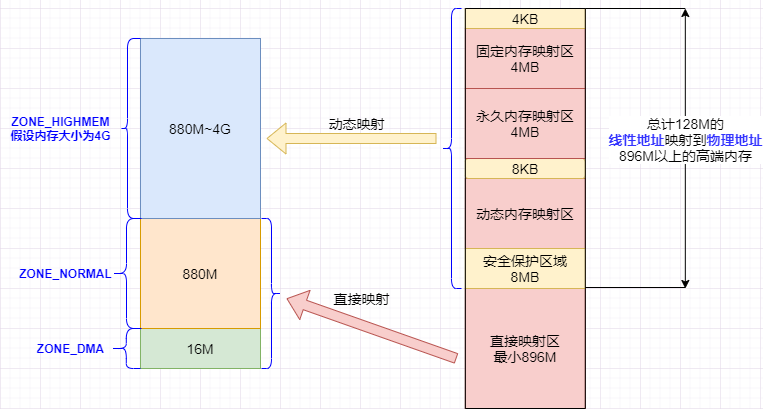
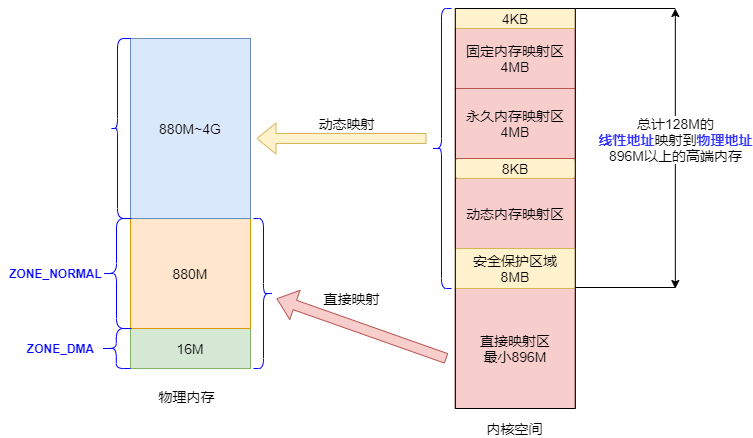
update linux mem manger

Changed region(s): [[0.0, 0.0, 1.0, 1.0]]

diff --git a/_posts/linux/linux工具系列/02/浅谈linux内存管理.md b/_posts/linux/linux工具系列/02/浅谈linux内存管理.md
@@ -1,16 +1,22 @@
 今天来带大家研究一下` Linux `内存管理。对于精通 `CURD` 的业务同学，内存管理好像离我们很远，但这个知识点虽然冷门（估计很多人学完根本就没机会用上）但绝对是基础中的基础，这就像武侠中的内功修炼，学完之后看不到立竿见影的效果，但对你日后的开发工作是大有裨益的，因为你站的更高了。
 
+**文中所有示例图都是我亲手画的，画图比码字还费时间，但是看图理解比文字更直观，需要高清示例图片的同学，文末有获取方式自取。** 
+
 再功利点的说，面试的时候不经意间透露你懂这方面知识，并且能说出个一二三来，也许能让面试官对你更有兴趣，离升职加薪，走上人生巅峰又近了一步。
 
-  ![img](https://i01piccdn.sogoucdn.com/5309215032ab9b82) 
+  ![image](https://imgconvert.csdnimg.cn/aHR0cHM6Ly91cGxvYWQtaW1hZ2VzLmppYW5zaHUuaW8vdXBsb2FkX2ltYWdlcy83ODQyNDY0LTIzMmZkNThiMGUwYzg4ZDE?x-oss-process=image/format,png) 
 
-前提约定：本文讨论技术内容前提是，操作系统环境都是 `x86`架构的 32 位 ` Linux `系统。
+前提约定：本文讨论技术内容前提，操作系统环境都是 `x86`架构的 32 位 ` Linux `系统。
 
 ## 虚拟地址
 
 即使是现代操作系统中，内存依然是计算机中很宝贵的资源，看看你电脑几个T固态硬盘，再看看内存大小就知道了。为了充分利用和管理系统内存资源，Linux采用虚拟内存管理技术，利用虚拟内存技术让每个进程都有`4GB` 互不干涉的虚拟地址空间。
 
 进程初始化分配和操作的都是基于这个「虚拟地址」，只有当进程需要实际访问内存资源的时候才会建立虚拟地址和物理地址的映射，调入物理内存页。
+
+打个不是很恰当的比方。这个原理其实和现在的某某网盘一样，假如你的网盘空间是` 1TB `，真以为就一口气给了你这么大空间吗？那还是太年轻，都是在你往里面放东西的时候才给你分配空间，你放多少就分多少实际空间给你，但你和你朋友看起来就像大家都拥有` 1TB `空间一样。
+
+![img](https://imgconvert.csdnimg.cn/aHR0cHM6Ly91cGxvYWQtaW1hZ2VzLmppYW5zaHUuaW8vdXBsb2FkX2ltYWdlcy83ODQyNDY0LTMwN2QzODQ1NzQyZmEwODM?x-oss-process=image/format,png)
 
 ### 虚拟地址的好处
 
@@ -19,7 +25,8 @@
 
 `4GB` 的进程虚拟地址空间被分成两部分：「用户空间」和「内核空间」
 
-![用户空间内核空间](F:\github\lemonchann.github.io\_posts\linux\linux工具系列\02\用户空间内核空间.png)
+![用户空间内核空间](https://imgconvert.csdnimg.cn/aHR0cHM6Ly91cGxvYWQtaW1hZ2VzLmppYW5zaHUuaW8vdXBsb2FkX2ltYWdlcy83ODQyNDY0LTRmMzgyNjMxZmQxMzM1MjMucG5n?x-oss-process=image/format,png)
+
 
 ## 物理地址
 
@@ -27,13 +34,14 @@
 
 把虚拟地址转换成内存的物理地址，这中间涉及利用`MMU` 内存管理单元（Memory Management Unit ) 对虚拟地址分段和分页（段页式）地址转换，关于分段和分页的具体流程，这里不再赘述，可以参考任何一本计算机组成原理教材描述。
 
- ![段页式内存管理地址转换](F:\github\lemonchann.github.io\_posts\linux\linux工具系列\02\段页式内存管理地址转换.png)
+![段页式内存管理地址转换](https://imgconvert.csdnimg.cn/aHR0cHM6Ly91cGxvYWQtaW1hZ2VzLmppYW5zaHUuaW8vdXBsb2FkX2ltYWdlcy83ODQyNDY0LTIyNzBlOTNmMjBlOGZkYjcucG5n?x-oss-process=image/format,png)
+
 
 `Linux` 内核会将物理内存分为3个管理区，分别是：
 
 ### ZONE_DMA
 
-`DMA`内存区域。包含0MB~16MB之间的内存页框，可以由老式基于ISA的设备通过DMA使用，直接映射到内核的地址空间。
+`DMA`内存区域。包含0MB~16MB之间的内存页框，可以由老式基于` ISA `的设备通过` DMA `使用，直接映射到内核的地址空间。
 
 ### ZONE_NORMAL
 
@@ -43,11 +51,12 @@
 
 高端内存区域。包含896MB以上的内存页框，不进行直接映射，可以通过永久映射和临时映射进行这部分内存页框的访问。
 
-![物理内存区划分](F:\github\lemonchann.github.io\_posts\linux\linux工具系列\02\物理内存区划分.png)
+![物理内存区划分](https://imgconvert.csdnimg.cn/aHR0cHM6Ly91cGxvYWQtaW1hZ2VzLmppYW5zaHUuaW8vdXBsb2FkX2ltYWdlcy83ODQyNDY0LTE2MzVmNGMwNzZjZWFlMTUucG5n?x-oss-process=image/format,png)
+
 
 ## 用户空间
 
-用户进程能访问的是「用户空间」，每个进程都有自己独立的用户空间，虚拟地址范围从从 0x00000000至0xBFFFFFFF ，总容量3G 。 
+用户进程能访问的是「用户空间」，每个进程都有自己独立的用户空间，虚拟地址范围从从 `0x00000000` 至 `0xBFFFFFFF` 总容量3G 。 
 
 用户进程通常只能访问用户空间的虚拟地址，只有在执行内陷操作或系统调用时才能访问内核空间。 
 
@@ -65,19 +74,18 @@
 
 - BSS段
 
-  BSS段包含了程序中未初始化的全局变量，在内存中 `bss` 段全部置零。
+  ` BSS `段包含了程序中未初始化的全局变量，在内存中 `bss` 段全部置零。
 
-- 堆 heap
+- 堆 ` heap` 
 
   堆是用于存放进程运行中被动态分配的内存段，它的大小并不固定，可动态扩张或缩减。当进程调用malloc等函数分配内存时，新分配的内存就被动态添加到堆上（堆被扩张）；当利用free等函数释放内存时，被释放的内存从堆中被剔除（堆被缩减）
 
-- 栈 stack
+- 栈 `stack`
 
-  栈是用户存放程序临时创建的局部变量，也就是函数中定义的变量（但不包括static声明的变量，static意味着在数据段中存放变量）。除此以外，在函数被调用时，其参数也会被压入发起调用的进程栈中，并且待到调用结束后，函数的返回值也会被存放回栈中。由于栈的先进先出特点，所以栈特别方便用来保存/恢复调用现场。从这个意义上讲，我们可以把堆栈看成一个寄存、交换临时数据的内存区。
+  栈是用户存放程序临时创建的局部变量，也就是函数中定义的变量（但不包括 `static` 声明的变量，static意味着在数据段中存放变量）。除此以外，在函数被调用时，其参数也会被压入发起调用的进程栈中，并且待到调用结束后，函数的返回值也会被存放回栈中。由于栈的先进先出特点，所以栈特别方便用来保存/恢复调用现场。从这个意义上讲，我们可以把堆栈看成一个寄存、交换临时数据的内存区。
 
 上述几种内存区域中数据段、`BSS` 段、堆通常是被连续存储在内存中，在位置上是连续的，而代码段和栈往往会被独立存放。堆和栈两个区域在 `i386` 体系结构中栈向下扩展、堆向上扩展，相对而生。 
-
-![程序内存区域分段](F:\github\lemonchann.github.io\_posts\linux\linux工具系列\02\程序内存区域分段.png)
+![程序内存区域分段](https://img-blog.csdnimg.cn/20200419230245702.png#pic_center)
 
 你也可以再linux下用`size` 命令查看编译后程序的各个内存区域大小：
 
@@ -91,29 +99,32 @@
 
 ## 内核空间
 
-在x86 32位系统里，Linux内核地址空间是指虚拟地址从0xC0000000开始到0xFFFFFFFF为止的高端内存地址空间，总计1G的容量， 包括了内核镜像、物理页面表、驱动程序等运行在内核空间 。
+在 `x86 32` 位系统里，Linux 内核地址空间是指虚拟地址从 `0xC0000000` 开始到 `0xFFFFFFFF` 为止的高端内存地址空间，总计 `1G` 的容量， 包括了内核镜像、物理页面表、驱动程序等运行在内核空间 。
 
-![内核空间细分区域](F:\github\lemonchann.github.io\_posts\linux\linux工具系列\02\内核空间细分区域.png)
+![内核空间细分区域.](https://imgconvert.csdnimg.cn/aHR0cHM6Ly91cGxvYWQtaW1hZ2VzLmppYW5zaHUuaW8vdXBsb2FkX2ltYWdlcy83ODQyNDY0LWZmZTNlNGQ4ZDc5ZjNmNGMucG5n?x-oss-process=image/format,png)
+
 
 #### 直接映射区
 
 直接映射区 `Direct Memory Region`：从内核空间起始地址开始，最大`896M`的内核空间地址区间，为直接内存映射区。
 
-直接映射区的896MB的「线性地址」直接与「物理地址」的前`896MB`进行映射，也就是说，内核地址空间的线性地址`0xC0000001`所对应的物理地址为`0x00000001`，它们之间相差一个偏移量`PAGE_OFFSET  = 0xC0000000` 
+直接映射区的896MB的「线性地址」直接与「物理地址」的前`896MB`进行映射，也就是说线性地址和分配的物理地址都是连续的。内核地址空间的线性地址`0xC0000001`所对应的物理地址为`0x00000001`，它们之间相差一个偏移量`PAGE_OFFSET  = 0xC0000000` 
 
-该区域的线性地址和物理地址存在线性转换关系：线性地址 = `PAGE_OFFSET` + 物理地址。也可以用 `virt_to_phys() `函数将内核虚拟空间中的线性地址转化为物理地址。
+该区域的线性地址和物理地址存在线性转换关系「线性地址 = `PAGE_OFFSET` + 物理地址」也可以用 `virt_to_phys() `函数将内核虚拟空间中的线性地址转化为物理地址。
 
 
 
 #### 高端内存线性地址空间
 
-内核空间线性地址从896M到1G的区间，容量128MB的地址区间是高端内存线性地址空间，为什么叫高端内存线性地址空间？下面给你解释一下：
+内核空间线性地址从 896M 到 1G 的区间，容量 128MB 的地址区间是高端内存线性地址空间，为什么叫高端内存线性地址空间？下面给你解释一下：
 
-前面已经说过，内核空间的总大小1GB，从内核空间起始地址开始的`896MB`的线性地址可以直接映射到物理地址大小为896MB的地址区间。退一万步，即使内核空间的1GB线性地址都映射到物理地址，那也最多只能寻址1GB大小的物理内存地址范围。
+前面已经说过，内核空间的总大小 1GB，从内核空间起始地址开始的 896MB 的线性地址可以直接映射到物理地址大小为 896MB 的地址区间。退一万步，即使内核空间的1GB线性地址都映射到物理地址，那也最多只能寻址 1GB 大小的物理内存地址范围。
 
-那请问你现在你家的内存条多大？都0202年了一般PC的内存都大于1GB吧！
+请问你现在你家的内存条多大？快醒醒都 0202 年了，一般 PC 的内存都大于 1GB 了吧！
+![](https://imgconvert.csdnimg.cn/aHR0cHM6Ly91cGxvYWQtaW1hZ2VzLmppYW5zaHUuaW8vdXBsb2FkX2ltYWdlcy83ODQyNDY0LTc0N2U1ZmYxNzQ1NDhlNjAucG5n?x-oss-process=image/format,png)
 
-所以，内核空间拿出了最后的128M地址区间，划分成下面3个内存映射区，以达到对整个物理地址范围的寻址。而在64位的系统上就不存在这样的问题了，因为可用的线性地址空间远大于可安装的内存。
+
+所以，内核空间拿出了最后的 128M 地址区间，划分成下面三个高端内存映射区，以达到对整个物理地址范围的寻址。而在 64 位的系统上就不存在这样的问题了，因为可用的线性地址空间远大于可安装的内存。
 
 ##### 动态内存映射区
 
@@ -125,27 +136,26 @@
 
 ##### 固定映射区 
 
-`Fixing kernel Mapping Region` 该区域和4G的顶端只有4k的隔离带，其每个地址项都服务于特定的用途，如ACPI_BASE等。
+`Fixing kernel Mapping Region` 该区域和 4G 的顶端只有 4k 的隔离带，其每个地址项都服务于特定的用途，如 `ACPI_BASE` 等。
 
-![内核空间物理内存映射](F:\github\lemonchann.github.io\_posts\linux\linux工具系列\02\内核空间物理内存映射.png)
-
+![内核空间物理内存映射](https://imgconvert.csdnimg.cn/aHR0cHM6Ly91cGxvYWQtaW1hZ2VzLmppYW5zaHUuaW8vdXBsb2FkX2ltYWdlcy83ODQyNDY0LTJkNzA2MDBkMjc3YWRjNWMucG5n?x-oss-process=image/format,png)
 
 
 ## 回顾一下
 
-先别着急，进入下一节之前，我们再来回顾一下上面所讲的内容。如果认真看完上面的章节，现在你的脑海中应该有这样一个内存管理管理图的概览。
+上面讲的有点多，先别着急进入下一节，在这之前我们再来回顾一下上面所讲的内容。如果认真看完上面的章节，我这里再画了一张图，现在你的脑海中应该有这样一个内存管理的全局图。
 
-![内核空间用户空间全图](F:\github\lemonchann.github.io\_posts\linux\linux工具系列\02\内核空间用户空间全图.png)
+![内核空间用户空间全图](https://imgconvert.csdnimg.cn/aHR0cHM6Ly91cGxvYWQtaW1hZ2VzLmppYW5zaHUuaW8vdXBsb2FkX2ltYWdlcy83ODQyNDY0LWQwYzA2YjA2ZjQ4NGQ0OGEucG5n?x-oss-process=image/format,png)
 
 
 
 ## 内存数据结构
 
-系统中管理虚拟内存，必然要把内存抽象出数据结构，内存单元对应抽象的内存结构体，内存管理基于这些数据结构操作，这里列举两个管理虚拟内存区域的数据结构。
+要让内核管理系统中的虚拟内存，必然要从中抽象出内存管理数据结构，内存管理操作如「分配、释放等」都基于这些数据结构操作，这里列举两个管理虚拟内存区域的数据结构。
 
 ### 用户空间内存数据结构
 
-在前面「进程与内存」章节我们提到，Linux进程可以划分为5个不同的内存区域，分别是：代码段、数据段、BSS、堆、栈，内核管理这些区域的方式是，将这些内存区域抽象成` vm_area_struct `的内存管理对象。
+在前面「进程与内存」章节我们提到，Linux进程可以划分为 5 个不同的内存区域，分别是：代码段、数据段、` BSS `、堆、栈，内核管理这些区域的方式是，将这些内存区域抽象成` vm_area_struct `的内存管理对象。 
 
 ` vm_area_struct `是描述进程地址空间的基本管理单元，一个进程往往需要多个` vm_area_struct `来描述它的用户空间虚拟地址，需要使用「链表」和「红黑树」来组织各个` vm_area_struct `。
 
@@ -153,9 +163,10 @@
 
 用户空间进程的地址管理模型：
 
-![wm_arem_struct](F:\github\lemonchann.github.io\_posts\linux\linux工具系列\02\wm_arem_struct.png)
+![wm_arem_struct](https://imgconvert.csdnimg.cn/aHR0cHM6Ly91cGxvYWQtaW1hZ2VzLmppYW5zaHUuaW8vdXBsb2FkX2ltYWdlcy83ODQyNDY0LWVmMDE0ODUyMWVlM2FkMTQucG5n?x-oss-process=image/format,png)
 
- 
+
+
 
 ### 内核空间动态分配内存数据结构
 
@@ -163,42 +174,45 @@
 
 `vmalloc` 分配的地址则限于` vmalloc_start `与` vmalloc_end `之间。每一块` vmalloc `分配的内核虚拟内存都对应一个` vm_struct `结构体，不同的内核空间虚拟地址之间有` 4k `大小的防越界空闲区间隔区。与用户空间的虚拟地址特性一样，这些虚拟地址与物理内存没有简单的映射关系，必须通过内核页表才可转换为物理地址或物理页，它们有可能尚未被映射，当发生缺页时才真正分配物理页面。
 
-![动态内存映射](F:\github\lemonchann.github.io\_posts\linux\linux工具系列\02\动态内存映射.png)
+![动态内存映射](https://imgconvert.csdnimg.cn/aHR0cHM6Ly91cGxvYWQtaW1hZ2VzLmppYW5zaHUuaW8vdXBsb2FkX2ltYWdlcy83ODQyNDY0LWU2YjEyZTcxMzE2NDRlODAucG5n?x-oss-process=image/format,png)
+
 
 
 
 ## 总结一下
 
-` Linux `内存管理是一个非常复杂的系统，光看` Linux` 源码你就知道有多庞大了，这篇文章从宏观角度给你展现内存管理的全貌，但一般来说，这些知识在你和面试官聊天的时候还是够用的，当然我也希望大家能了解更深层次的原理。它可以作为一个索引一样学习指南，当你想深入某一点学习的时候可以在这篇文章里找到切入点，以及这个知识点在内存管理宏观上的位置。
+`Linux `内存管理是一个非常复杂的系统，本文所述只是冰山一角，从宏观角度给你展现内存管理的全貌，但一般来说，这些知识在你和面试官聊天的时候还是够用的，当然我也希望大家能够通过读书了解更深层次的原理。
 
-我在总结的时候也画了大量的说明图解，可以作为知识索引，个人感觉看图还是比看文字更清晰明了，你可以在我公众号「后端技术学堂」后台回复「内存管理」获取这些图片的高清原图。
+希望这篇文章可以作为一个索引一样的学习指南，当你想深入某一点学习的时候可以在这些章节里找到切入点，以及这个知识点在内存管理宏观上的位置。
 
-老规矩。感谢各位的阅读，文章的目的是分享对知识的理解，技术类文章我都会反复求证以求最大程度保证准确性，若文中出现明显纰漏也欢迎指出，我们一起在探讨中学习。
+**本文创作过程我也画了大量的示例图解，可以作为知识索引，个人感觉看图还是比看文字更清晰明了，你可以在我公众号「后端技术学堂」后台回复「内存管理」获取这些图片的高清原图。**
 
-今天的技术分享就到这里，我们下期再见。
+老规矩，感谢各位的阅读，文章的目的是分享对知识的理解，技术类文章我都会反复求证以求最大程度保证准确性，若文中出现明显纰漏也欢迎指出，我们一起在探讨中学习。今天的技术分享就到这里，我们下期再见。
 
-**原创不易，看到这里，如果在我这有一点点收获，就动动手指「转发」「在看」是对我持续创作的最大支持。**
+**原创不易，看到这里，如果在我这有一点点收获，就动动手指「转发」和「在看」是对我持续创作的最大支持。**
 
 
 
 ## Reference
 
- https://cloud.tencent.com/developer/article/1515762 
+Linux内存管理（最透彻的一篇） https://cloud.tencent.com/developer/article/1515762 
 
- https://cloud.tencent.com/developer/article/1005671
+linux 内存管理初探 https://cloud.tencent.com/developer/article/1005671
 
- https://www.cnblogs.com/tolimit/p/4551428.html  
+linux内存管理源码分析 - 页框分配器 https://www.cnblogs.com/tolimit/p/4551428.html  
 
- http://gityuan.com/2015/10/30/kernel-memory/ 
+Linux内核--内核地址空间分布和进程地址空间 https://my.oschina.net/wuqingyi/blog/854382  
 
- https://www.jianshu.com/p/95d68389fbd1 
+Linux内存管理 http://gityuan.com/2015/10/30/kernel-memory/ 
 
- https://www.ibm.com/developerworks/cn/linux/l-linux-slab-allocator/index.html#table2 
+linux内核slab机制分析 https://www.jianshu.com/p/95d68389fbd1 
 
- https://zhuanlan.zhihu.com/p/36140017 
+Linux slab 分配器剖析 https://www.ibm.com/developerworks/cn/linux/l-linux-slab-allocator/index.html#table2 
 
- https://fivezh.github.io/2017/06/25/Linux-slab-info/ 
+Linux内核内存管理算法Buddy和Slab https://zhuanlan.zhihu.com/p/36140017 
 
- http://blog.yufeng.info/archives/2456 
+Linux内存之Slab https://fivezh.github.io/2017/06/25/Linux-slab-info/ 
 
- https://cloud.tencent.com/developer/article/1515762 
+Linux Used内存到底哪里去了？ http://blog.yufeng.info/archives/2456 
+
+
